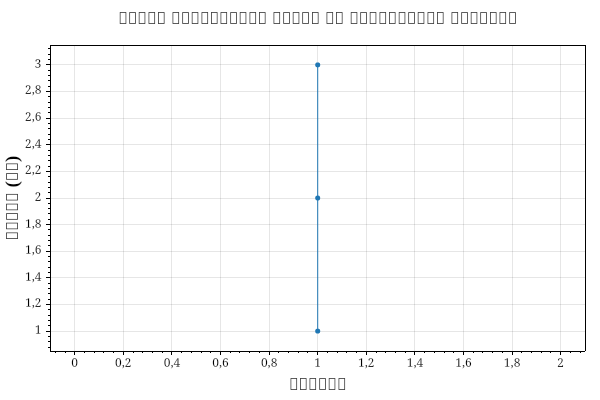
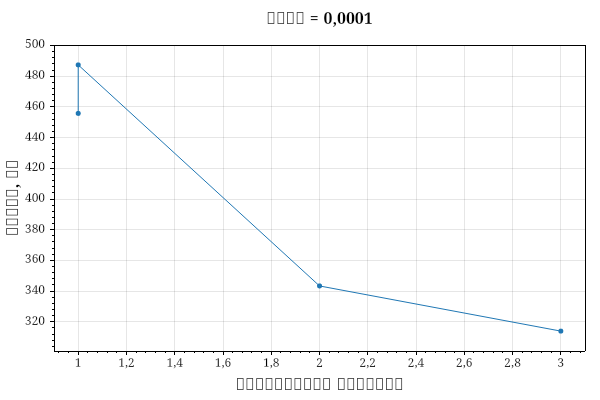
fix Task15

diff --git a/task15/PerfomanceRunner.cs b/task15/PerfomanceRunner.cs
@@ -1,7 +1,9 @@
 using System;
+using System.Collections.Generic;
 using System.Diagnostics;
+using System.Globalization;
 using System.IO;
-using practice2025.Task15;
+using System.Linq;
 
 namespace practice2025.Task15
 {
@@ -12,45 +14,38 @@ namespace practice2025.Task15
             double to,
             Func<double, double> function,
             double[] steps,
-            int maxThreads,
-            int repeats = 5,
-            string outCsv = "performance.csv")
+            int maxThreads)
         {
-            using var writer = new StreamWriter(outCsv);
+            var csvPath = "performance.csv";
+            using var writer = new StreamWriter(csvPath, false, System.Text.Encoding.UTF8);
             writer.WriteLine("Step,Threads,AvgTimeMs");
 
-            foreach (var step in steps)
+            foreach (double step in steps)
             {
-                double singleMs = MeasureAvgTime(
-                    () => DefiniteIntegral.SolveSingleThread(from, to, function, step),
-                    repeats);
-                Console.WriteLine($"[Single] Step={step:E} => {singleMs:F2}ms");
+                double singleMs = Measure(() =>
+                    DefiniteIntegral.Solve(from, to, function, step, 1));
+                writer.WriteLine(
+                    $"{step.ToString("G", CultureInfo.InvariantCulture)},1," +
+                    $"{singleMs.ToString("F2", CultureInfo.InvariantCulture)}");
 
-                for (int t = 1; t <= maxThreads; t++)
+                for (int threads = 1; threads <= Math.Min(maxThreads, 3); threads++)
                 {
-                    double multiMs = MeasureAvgTime(
-                        () => DefiniteIntegral.Solve(from, to, function, step, t),
-                        repeats);
-                    Console.WriteLine($"[Multi ] Step={step:E}, Threads={t} => {multiMs:F2}ms");
-                    writer.WriteLine($"{step},{t},{multiMs:F2}");
+                    double multiMs = Measure(() =>
+                        DefiniteIntegral.Solve(from, to, function, step, threads));
+                    writer.WriteLine(
+                        $"{step.ToString("G", CultureInfo.InvariantCulture)}," +
+                        $"{threads}," +
+                        $"{multiMs.ToString("F2", CultureInfo.InvariantCulture)}");
                 }
             }
-
-            Console.WriteLine($"\nРезультаты сохранены в {outCsv}");
         }
 
-        private static double MeasureAvgTime(Action action, int repeats)
+        static double Measure(Action action)
         {
-            var sw = new Stopwatch();
-            double total = 0;
-            for (int i = 0; i < repeats; i++)
-            {
-                sw.Restart();
-                action();
-                sw.Stop();
-                total += sw.Elapsed.TotalMilliseconds;
-            }
-            return total / repeats;
+            var sw = Stopwatch.StartNew();
+            action();
+            sw.Stop();
+            return sw.Elapsed.TotalMilliseconds;
         }
     }
 }

diff --git a/task15/PlotBuilder.cs b/task15/PlotBuilder.cs
@@ -1,8 +1,8 @@
+using System;
 using System.Globalization;
 using System.IO;
 using System.Linq;
 using ScottPlot;
-using System;
 
 namespace practice2025.Task15
 {
@@ -10,21 +10,27 @@ namespace practice2025.Task15
     {
         public static void BuildPlot(string csvPath, string imageOut, double targetStep = 1e-4)
         {
-            var lines = File.ReadAllLines(csvPath)
-                            .Skip(1)
-                            .Where(line => line.StartsWith($"{targetStep}"))
-                            .Select(line => line.Split(','))
-                            .ToList();
+            var data = File.ReadAllLines(csvPath)
+                .Skip(1)
+                .Select(line => line.Split(','))
+                .Select(parts => new
+                {
+                    Step    = double.Parse(parts[0], CultureInfo.InvariantCulture),
+                    Threads = int.Parse(parts[1], CultureInfo.InvariantCulture),
+                    Time    = double.Parse(parts[2], CultureInfo.InvariantCulture)
+                })
+                .Where(d => Math.Abs(d.Step - targetStep) < 1e-9)
+                .OrderBy(d => d.Threads)
+                .ToList();
 
-            var threads = lines.Select(parts => double.Parse(parts[1], CultureInfo.InvariantCulture)).ToArray();
-            var times = lines.Select(parts => double.Parse(parts[2], CultureInfo.InvariantCulture)).ToArray();
+            double[] xs = data.Select(d => (double)d.Threads).ToArray();
+            double[] ys = data.Select(d => d.Time).ToArray();
 
             var plt = new Plot();
-            plt.Add.Scatter(threads, times);
-
-            plt.Title("Время выполнения Solve от количества потоков");
-            plt.XLabel("Потоки");
-            plt.YLabel("Время (мс)");
+            plt.Add.Scatter(xs, ys);
+            plt.Title($"Step = {targetStep:G}");
+            plt.XLabel("Количество потоков");
+            plt.YLabel("Время, мс");
 
             plt.SavePng(imageOut, 600, 400);
             Console.WriteLine($"График сохранён: {imageOut}");

diff --git a/task15/Program.cs b/task15/Program.cs
@@ -8,7 +8,6 @@ namespace practice2025.Task15
         static void Main()
         {
             double[] steps = { 1e-1, 1e-2, 1e-3, 1e-4, 1e-5, 1e-6 };
-            
             int maxThreads = Environment.ProcessorCount;
 
             PerformanceRunner.Run(
